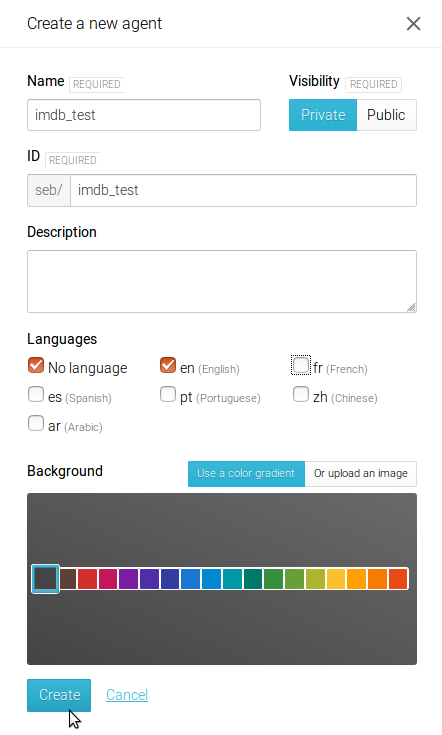
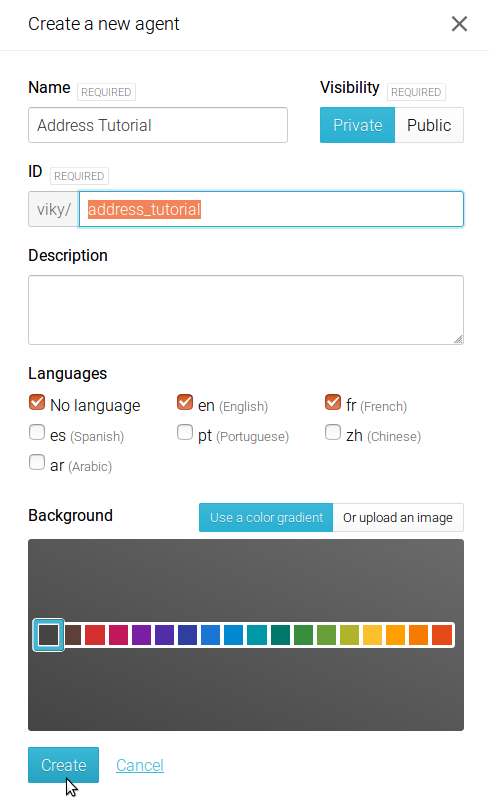
#20611 (update): add screenshot on review

diff --git a/Get_Started/start.md b/Get_Started/start.md
@@ -20,13 +20,13 @@ A typical example is: 12 avenue de Flandres 75019 Paris
 Find some information about postal addresses on [Wikipedia](https://fr.wikipedia.org/wiki/Adresse_postale#France)
 
 **Second step...** can I reuse components or should I create everything from scratch?
-Think about the elementary components you will need to create agents able to identify a postal address. 
+Think about the elementary components you will need to create agents able to identify a postal address.
 In the example "12 avenue de Flandres 75019 Paris", the decomposition into elementary elements gives :
 - number,
-- road type, 
+- road type,
 - road name,
-- postal code (i.e. a specific pattern of numbers), 
-- city, 
+- postal code (i.e. a specific pattern of numbers),
+- city,
 - it could optionally contain information about the apartment, building, floor.
 
 >_**Tips and tricks**_
@@ -38,7 +38,7 @@ We will create a module (named _**Agents**_ in Viky's world) able to identify ea
 
 # Create an agent
 In Viky, click on the _**Agents**_ tab, then on _**New Agent**_.
-> screenshot à insérer
+![New Agent screenshot](pics/01_new_agent.png)
 
 A pop in "Create a new agent" opens.
 > screenshot à insérer
